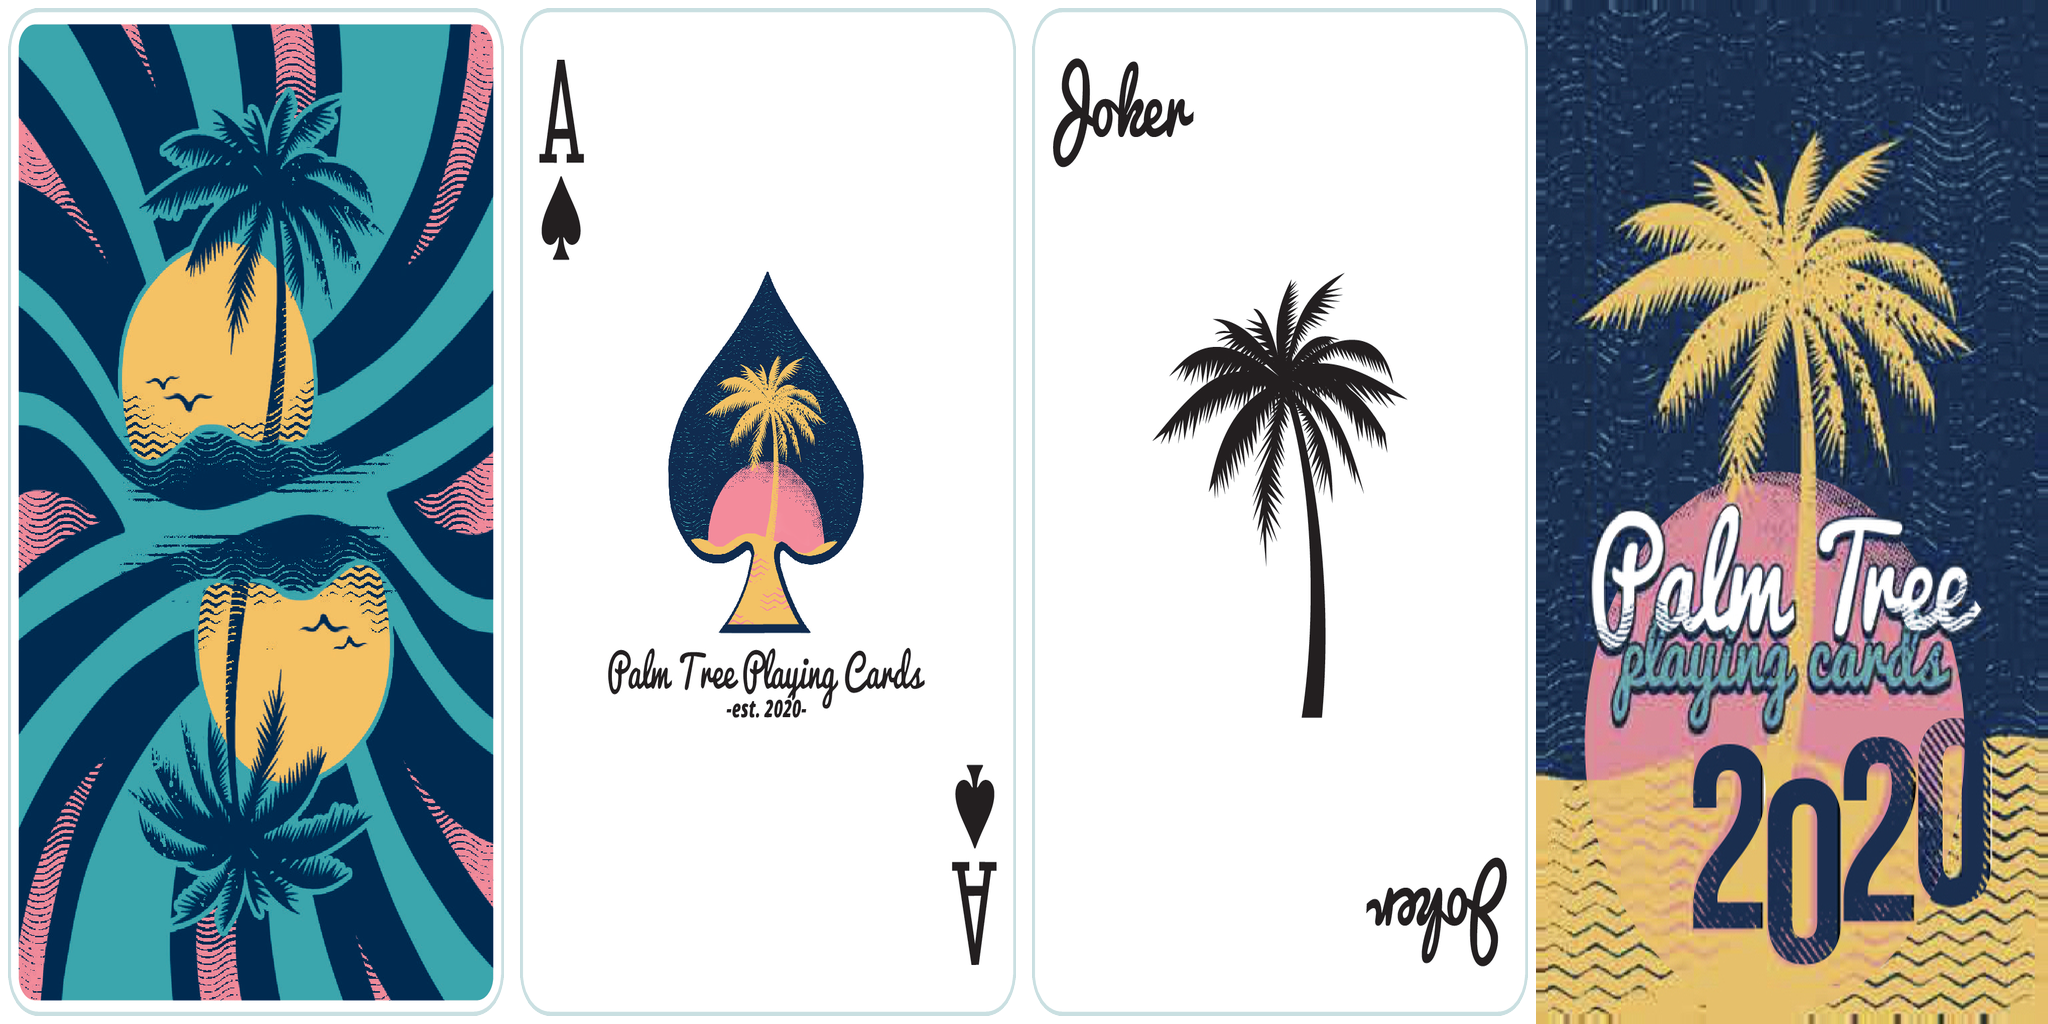
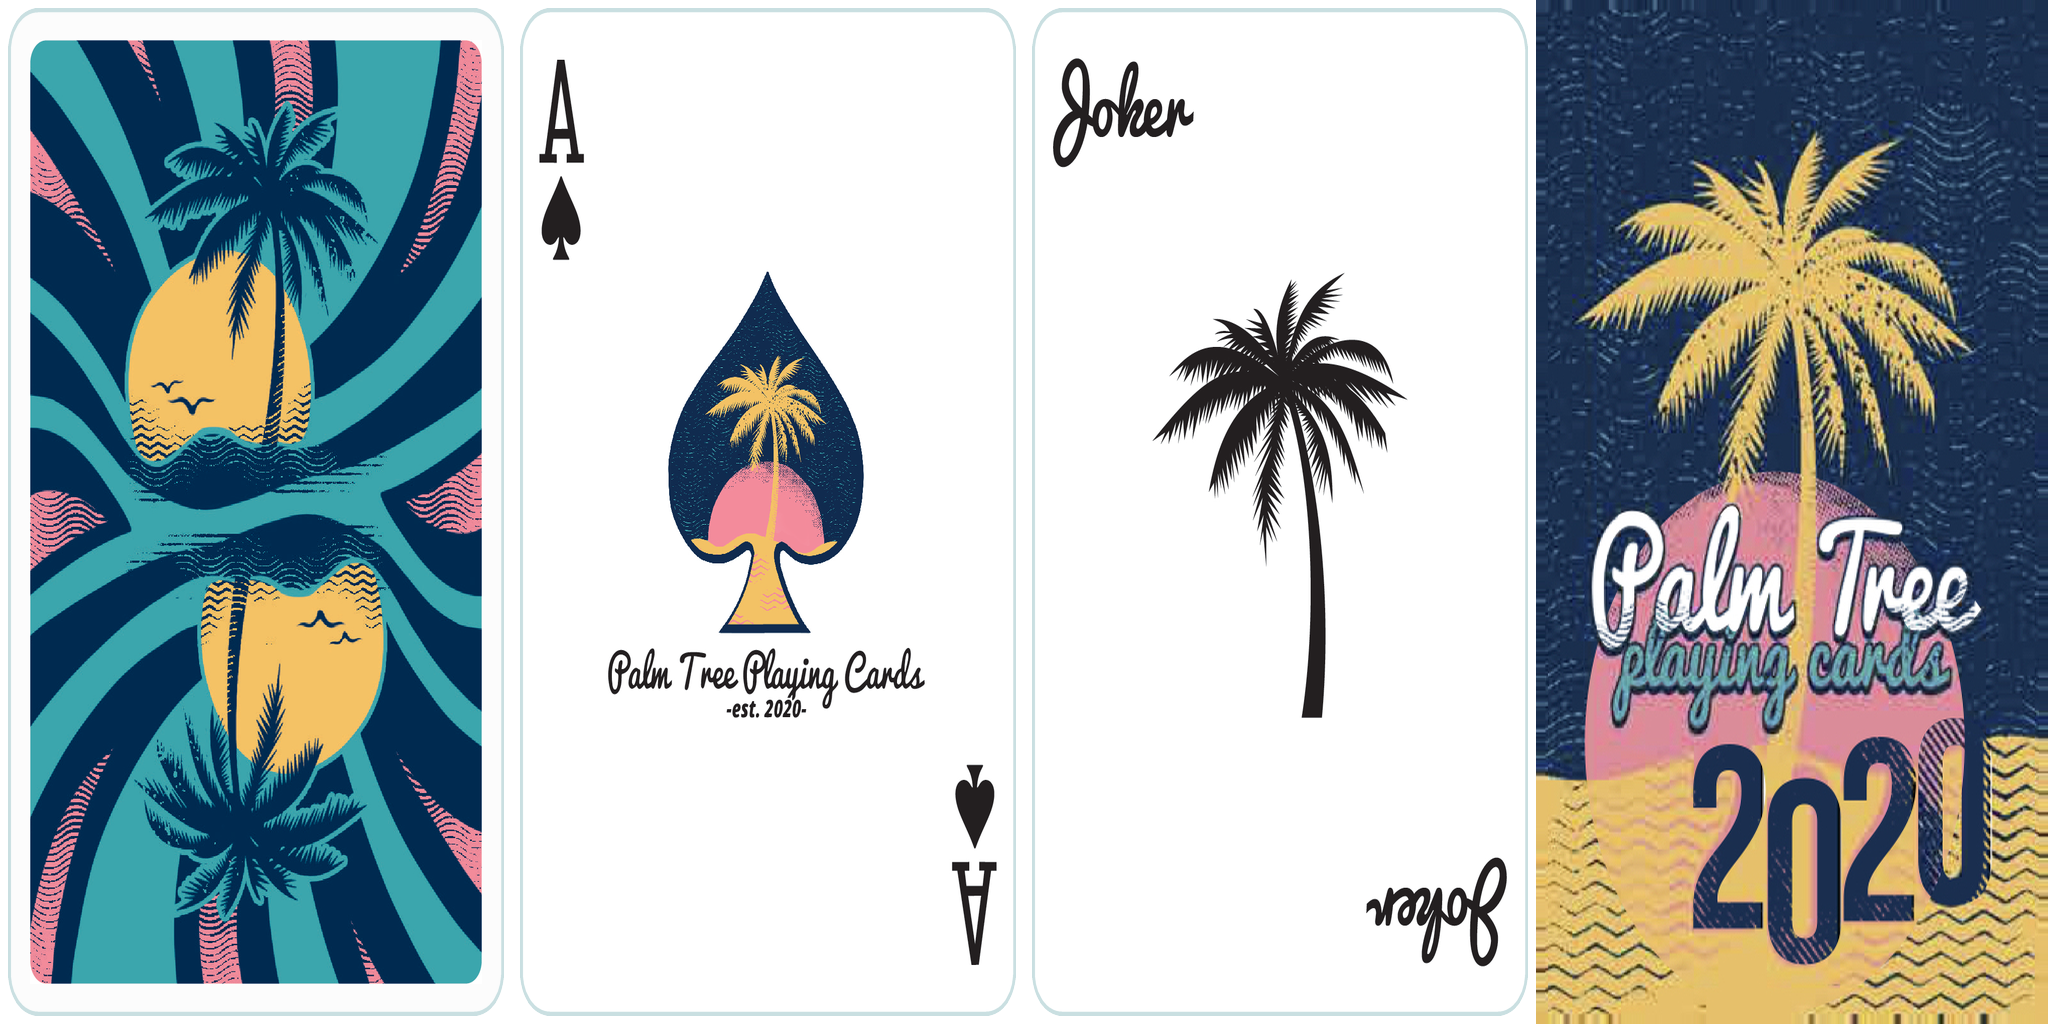
Original back: the printed deck's wider white border
The print file's back art sits about 2.2% of the card's width in from
the trim; on the printed deck (Sean's album) the white border measures
about 4.5%. The build re-seats the art inside that border.

Changed region(s): [[0.0, 0.0, 0.25, 1.0]]

diff --git a/tools/build_art.py b/tools/build_art.py
@@ -184,6 +184,17 @@ def flat_cell(img, cw, ch, g):
     return Image.fromarray(np.dstack([a, np.full(a.shape[:2], 255, np.uint8)]))
 
 
+def white_border(card, frac):
+    """Re-seat a back's art inside a wider white border (frac of the card's width on every side). The print file's
+    art sits about 2.2% in; on the printed Original (from my album) the border measures about 4.5%."""
+    a = np.asarray(card.convert('RGB')).astype(int); ys, xs = np.where(a.min(axis=2) < 235)
+    art = card.crop((xs.min(), ys.min(), xs.max() + 1, ys.max() + 1))
+    w, h = card.size; b = round(w * frac)
+    out = Image.new('RGB', card.size, (252, 252, 252))
+    out.paste(art.resize((w - 2 * b, h - 2 * b), Image.LANCZOS), (b, b))
+    return out
+
+
 def original():
     doc = pymupdf.open(PRINT)
     back = pdf_image(doc, 0, lambda x, r: r.y0 < 100 and r.x0 > 300)     # top-right on p1
@@ -191,7 +202,7 @@ def original():
     die = pdf_image(doc, 0, lambda x, r: r.x0 < 100 and r.y0 < 100)     # the tuck dieline art
     ace = pdf_image(doc, 1, lambda x, r: r.x0 < 100 and r.y0 < 100)     # p2, first card
     panels = TUCK_PANELS['original']
-    cells = {'back': trim(back), 'AS': trim(ace), 'JK': trim(joker), 'tuck': die.crop(panels['front'])}
+    cells = {'back': white_border(trim(back), 0.045), 'AS': trim(ace), 'JK': trim(joker), 'tuck': die.crop(panels['front'])}
     return {
         'id': 'original', 'name': 'Original',
         'sheet': card_sheet('original', cells, ((512, 1024), 8, 4)),
